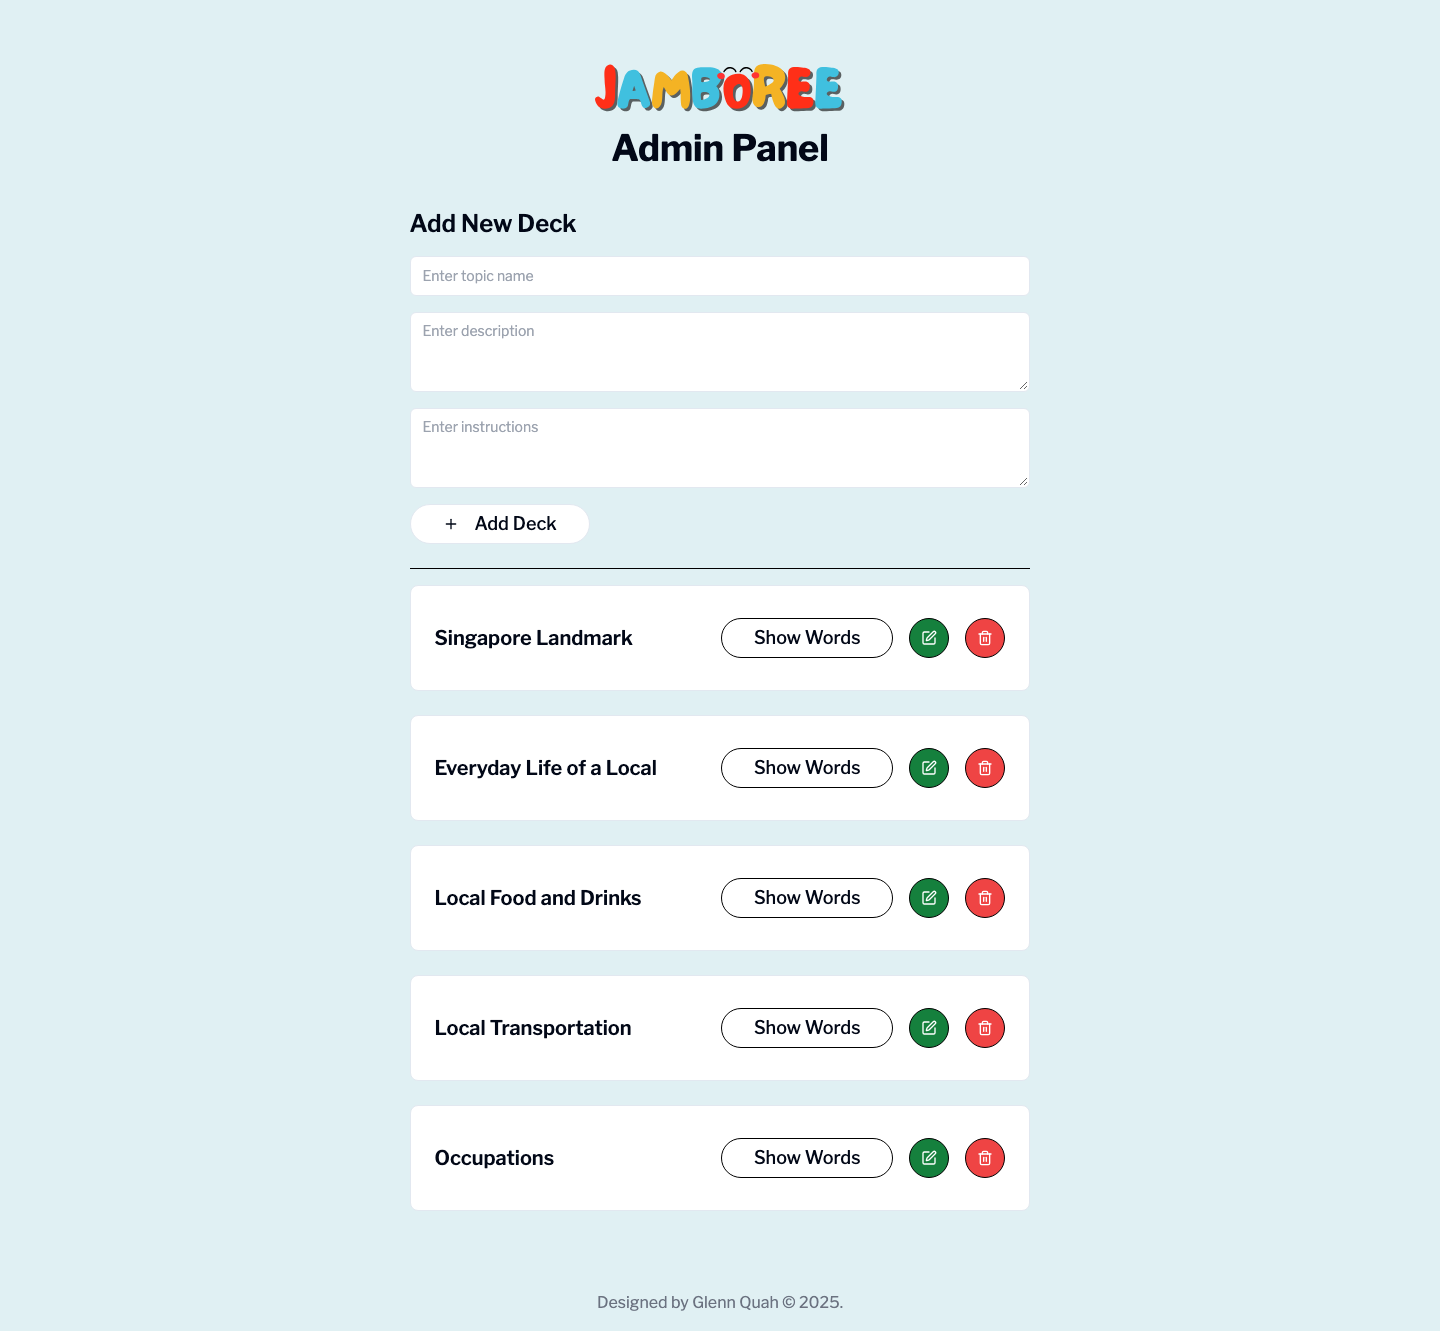
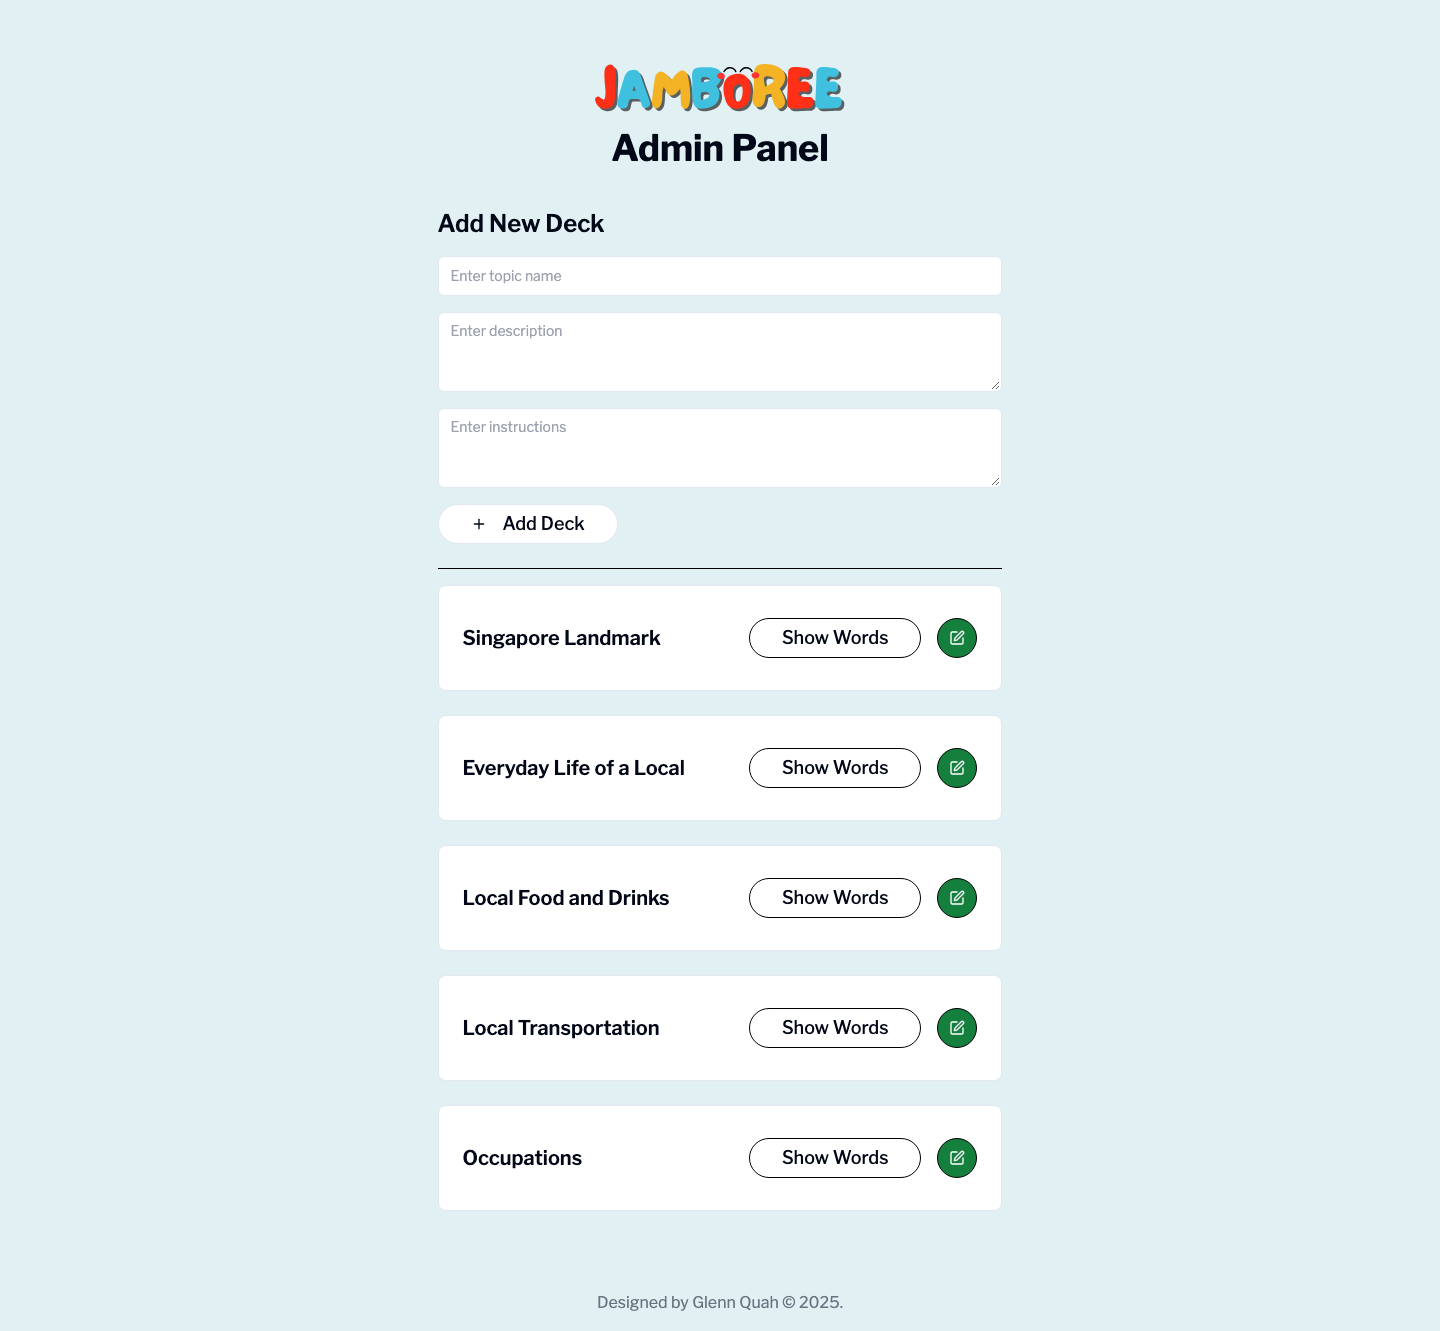
Block public deletion and refresh multilingual gameplay screenshots

Changed region(s): [[0.2812, 0.154, 0.4688, 0.9241], [0.5, 0.4313, 0.7188, 0.9241], [0.6875, 0.1848, 0.7188, 0.3696]]

diff --git a/src/pages/Admin.tsx b/src/pages/Admin.tsx
@@ -5,7 +5,7 @@ import { Textarea } from '@/components/ui/textarea'
 import { toast } from '@/components/ui/use-toast'
 import { supabase } from '@/integrations/supabase/client'
 import { useMutation, useQuery, useQueryClient } from '@tanstack/react-query'
-import { Edit, EditIcon, Loader2, Plus, Trash2 } from 'lucide-react'
+import { Edit, EditIcon, Loader2, Plus } from 'lucide-react'
 import { useState } from 'react'
 import { Link } from 'react-router-dom'
 const logo = '/icons.svg'
@@ -17,7 +17,6 @@ export default function Admin() {
   const [translations, setTranslations] = useState<Record<string, string>>({})
   const [selectedTopic, setSelectedTopic] = useState<number | null>(null)
   const [expandedTopics, setExpandedTopics] = useState<number[]>([])
-  const [showDeleteDialog, setShowDeleteDialog] = useState<number | null>(null)
   const [editingWordId, setEditingWordId] = useState<number | null>(null)
   const [editingTranslations, setEditingTranslations] = useState<
     Record<string, string>
@@ -98,39 +97,6 @@ export default function Admin() {
       toast({
         title: 'Success',
         description: 'Topic updated successfully',
-      })
-    },
-  })
-
-  const deleteTopicMutation = useMutation({
-    mutationFn: async (id: number) => {
-      const { error } = await supabase.from('topics').delete().eq('id', id)
-      if (error) throw error
-    },
-    onSuccess: () => {
-      queryClient.invalidateQueries({ queryKey: ['topics'] })
-      toast({
-        title: 'Success',
-        description: 'Topic deleted successfully',
-      })
-    },
-  })
-
-  const handleDeleteTopic = (topicId: number) => {
-    deleteTopicMutation.mutate(topicId)
-    setShowDeleteDialog(null)
-  }
-
-  const deleteWordMutation = useMutation({
-    mutationFn: async (id: number) => {
-      const { error } = await supabase.from('words').delete().eq('id', id)
-      if (error) throw error
-    },
-    onSuccess: () => {
-      queryClient.invalidateQueries({ queryKey: ['topics'] })
-      toast({
-        title: 'Success',
-        description: 'Word deleted successfully',
       })
     },
   })
@@ -340,15 +306,6 @@ export default function Admin() {
                     >
                       <EditIcon className="w-4 h-4" />
                     </Button>
-                    <Button
-                      variant="outline"
-                      size="icon"
-                      aria-label={`Delete deck ${topic.name}`}
-                      onClick={() => setShowDeleteDialog(topic.id)}
-                      className="text-lg p-2 border border-black bg-red-500 text-white"
-                    >
-                      <Trash2 className="w-4 h-4" />
-                    </Button>
                   </div>
                 </div>
 
@@ -402,19 +359,10 @@ export default function Admin() {
                             variant="destructive"
                             size="icon"
                             aria-label={`Edit word ${word.id}`}
-                            className="absolute top-2 right-14"
+                            className="absolute top-2 right-2"
                             onClick={() => openEditDialog(word.id)}
                           >
                             <Edit className="w-4 h-4" />
-                          </Button>
-                          <Button
-                            variant="destructive"
-                            size="icon"
-                            aria-label={`Delete word ${word.id}`}
-                            className="absolute top-2 right-2"
-                            onClick={() => deleteWordMutation.mutate(word.id)}
-                          >
-                            <Trash2 className="w-4 h-4" />
                           </Button>
                           {Object.entries(word.translations).map(
                             ([lang, translation]: [string, string]) => (
@@ -439,28 +387,6 @@ export default function Admin() {
           </div> */}
         </div>
       </div>
-      {showDeleteDialog !== null && (
-        <div className="fixed inset-0 bg-black bg-opacity-50 flex items-center justify-center z-50">
-          <div className="bg-white p-12 rounded-lg shadow-lg space-y-4 text-center">
-            <h3 className="text-2xl font-semibold">Confirm Delete</h3>
-            <p>Are you sure you want to delete this topic?</p>
-            <div className="flex justify-center gap-4 mt-4">
-              <Button
-                onClick={() => handleDeleteTopic(showDeleteDialog)}
-                className="bg-red-500 text-white px-6 py-2"
-              >
-                Yes, Delete
-              </Button>
-              <Button
-                onClick={() => setShowDeleteDialog(null)}
-                className="bg-gray-300 px-6 py-2"
-              >
-                Cancel
-              </Button>
-            </div>
-          </div>
-        </div>
-      )}
       {editingWordId !== null && (
         <div className="fixed inset-0 bg-black bg-opacity-50 flex items-center justify-center z-50">
           <div className="bg-white p-12 rounded-lg shadow-lg space-y-4 text-center">

diff --git a/tests/live/screenshots.spec.ts b/tests/live/screenshots.spec.ts
@@ -29,12 +29,17 @@ test('capture Jamboree and its public word-management portal', async ({ page }) 
   await page.getByRole('button', { name: 'Play Now' }).click()
   await page.getByRole('button', { name: 'English', exact: true }).click()
   await page.getByRole('button', { name: 'Chinese', exact: true }).click()
+  await page.getByRole('button', { name: 'Hokkien', exact: true }).click()
+  await page.getByRole('button', { name: 'Cantonese', exact: true }).click()
   await page.getByRole('button', { name: 'Continue' }).click()
   await page.getByRole('button', { name: topic!.name, exact: true }).click()
   await capture('setup')
   await page.getByRole('button', { name: 'Continue' }).click()
   await expect(page.getByRole('button', { name: 'Correct', exact: true })).toBeVisible()
   await capture('game')
+  await page.getByRole('button', { name: 'Correct', exact: true }).click()
+  await expect(page.getByText('Score: 1', { exact: true })).toBeVisible()
+  await capture('game-scored')
   // Let the real round finish without submitting a score.
   await expect(page.getByText('Game Over!', { exact: true })).toBeVisible({ timeout: 70_000 })
   await capture('results')

diff --git a/tests/game.spec.ts b/tests/game.spec.ts
@@ -45,5 +45,9 @@ test('play a full round with sample data', async ({ page }, testInfo) => {
   await screenshot('results')
   await page.goto('/admin')
   await expect(page.getByRole('heading', { name: 'Admin Panel' })).toBeVisible()
+  await expect(page.getByRole('button', { name: /delete/i })).toHaveCount(0)
+  await page.getByRole('button', { name: 'Show Words', exact: true }).click()
+  await expect(page.getByRole('button', { name: /delete/i })).toHaveCount(0)
+  await expect(page.getByRole('button', { name: 'Edit word 1', exact: true })).toBeVisible()
   expect(errors).toEqual([])
 })

diff --git a/README.md b/README.md
@@ -17,9 +17,11 @@ A multilingual charades game inspired by Singapore’s everyday life and culture
 
 | Set up a round | Play together |
 | --- | --- |
-| ![Deck and timer selection](docs/screenshots/setup.png) | ![A bilingual charades prompt](docs/screenshots/game.png) |
+| ![Deck and timer selection](docs/screenshots/setup.png) | ![A multilingual charades prompt](docs/screenshots/game.png) |
 
-![Results after a round](docs/screenshots/results.png)
+| A live round after a correct guess | Round results |
+| --- | --- |
+| ![A real prompt with a running score](docs/screenshots/game-scored.png) | ![Results after a round](docs/screenshots/results.png) |
 
 Screenshots were captured with Playwright against the running game database. They show actual decks and prompts, with no participant names or leaderboard records. These are app screenshots rather than photographs of gatherings.
 
@@ -32,7 +34,7 @@ npm ci
 cp .env.example .env.local
 ```
 
-Create your own Supabase project. For a **new, empty project**, run [the initial schema](supabase/migrations/202611150001_initial_schema.sql) and then [the sample seed](supabase/seed.sql) in its SQL editor. Alternatively, with the Supabase CLI and Docker installed, run `supabase start` and `supabase db reset` to initialize a local database. Resetting deletes local database data.
+Create your own Supabase project. For a **new, empty project**, run [the initial schema](supabase/migrations/202611150001_initial_schema.sql), [deletion protection](supabase/migrations/202611150002_disable_public_deletion.sql), and then [the sample seed](supabase/seed.sql) in its SQL editor. Alternatively, with the Supabase CLI and Docker installed, run `supabase start` and `supabase db reset` to initialize a local database. Resetting deletes local database data.
 
 Put your project's URL and public anon/publishable key in `.env.local`:
 
@@ -51,9 +53,9 @@ Open http://localhost:8080. Without configuration, the app displays setup instru
 
 ## Manage decks
 
-The `/admin` dashboard is public and does not require sign-in. Anyone with access can add, edit, or delete shared decks and words. The supplied database policies intentionally allow these operations. Use a separate Supabase project for your own instance and keep backups of event decks.
+The `/admin` dashboard is public and does not require sign-in. Anyone with access can add or edit shared decks and words. Public deletion is disabled in the UI and blocked by the supplied database migration. Use a separate Supabase project for your own instance and keep backups of event decks.
 
-Use **Add New Deck** to create a deck with its description and instructions. Select **Show Words** on a deck to view its prompts, add translations in English, Chinese, Hokkien, or Cantonese, and use each word's pencil button to adjust translations. The deck's pencil button edits its name, description, and instructions. Delete buttons remove the selected word or deck.
+Use **Add New Deck** to create a deck with its description and instructions. Select **Show Words** on a deck to view its prompts, add translations in English, Chinese, Hokkien, or Cantonese, and use each word's pencil button to adjust translations. The deck's pencil button edits its name, description, and instructions. Deletion is reserved for trusted database administration; it is unavailable in the public portal.
 
 ![Public admin portal for managing decks](docs/screenshots/admin.png)
 
@@ -64,7 +66,7 @@ Use **Add New Deck** to create a deck with its description and instructions. Sel
 ![Edit a deck's name, description, and instructions](docs/screenshots/admin-edit-deck.png)
 
 
-The migration targets fresh databases. Existing deployments should review their policies separately before adapting this schema.
+The initial migration targets fresh databases. Existing deployments can run [the deletion protection migration](supabase/migrations/202611150002_disable_public_deletion.sql) separately to revoke public delete/truncate privileges and reject deletes from browser roles, including through database functions. Existing policies should be reviewed separately.
 
 Scores are client-submitted and publicly readable. Use nicknames, avoid personal information, and treat the leaderboard as casual event scoring. Public deployments needing abuse prevention should add server-side validation and rate limits.
 

diff --git a/SECURITY.md b/SECURITY.md
@@ -2,7 +2,7 @@
 
 Do not post credentials or participant information in public issues. Report sensitive findings privately through GitHub private vulnerability reporting if enabled, or contact the repository owner privately.
 
-Browser Supabase keys are public configuration. The dashboard is intentionally public: database policies allow anyone to read, add, edit, or delete decks and words. Never place service-role keys in this frontend.
+Browser Supabase keys are public configuration. The dashboard is intentionally public: database policies allow anyone to read, add, or edit decks and words. The deletion-protection migration revokes delete/truncate privileges and blocks deletion requests from browser roles. Editing remains public, so visitors can still change existing content. Never place service-role keys in this frontend.
 
 The original Supabase URL and anon key remain in Git history. Before publication, review that project's policies and rotate or retire its credentials if appropriate. Removing values from the latest commit does not remove them from history. No private service-role key was identified in the working tree during cleanup.
 
